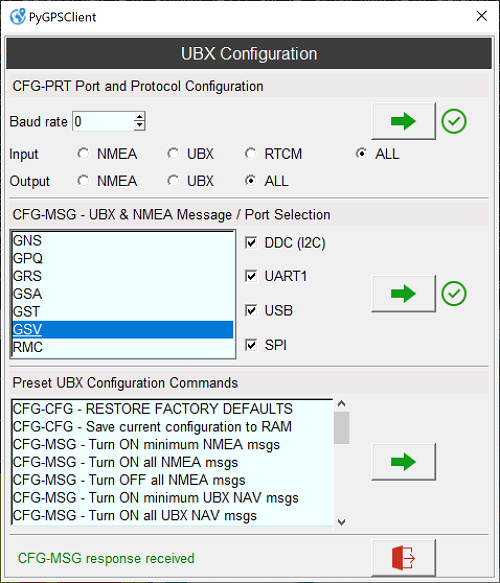
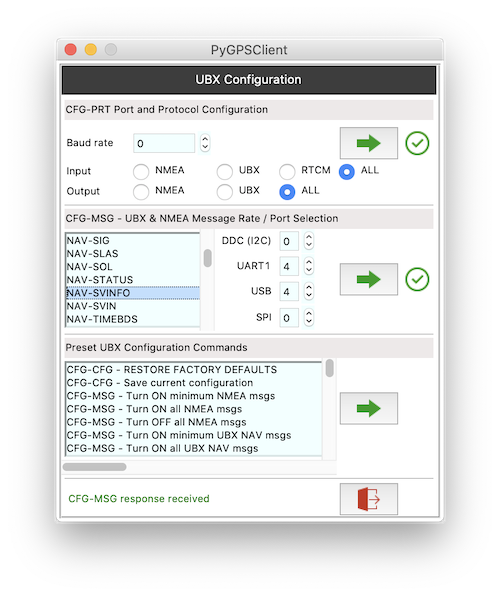
allow CFG-MSG rates in the range 0-9

diff --git a/pygpsclient/ubx_config_dialog.py b/pygpsclient/ubx_config_dialog.py
@@ -73,10 +73,10 @@ class UBXConfigDialog():
         self._ubx_baudrate = StringVar()
         self._ubx_inprot = IntVar()
         self._ubx_outprot = IntVar()
-        self._ddc_onoff = IntVar()
-        self._uart1_onoff = IntVar()
-        self._usb_onoff = IntVar()
-        self._spi_onoff = IntVar()
+        self._ddc_rate = IntVar()
+        self._uart1_rate = IntVar()
+        self._usb_rate = IntVar()
+        self._spi_rate = IntVar()
 
         self._body()
         self._do_layout()
@@ -98,7 +98,7 @@ class UBXConfigDialog():
         con.option_add("*Font", self.__app.font_sm)
 
         self._lbl_title = Label(con, text=LBLUBXCONFIG, bg=BGCOL, fg=FGCOL,
-                                justify=LEFT, font=self.__app.font_md, width=55)
+                                justify=LEFT, font=self.__app.font_md)
         # *******************************************************
         # Port Configuration
         # *******************************************************
@@ -125,7 +125,7 @@ class UBXConfigDialog():
                                             variable=self._ubx_outprot, value=1)
         self._rad_outprot_both = Radiobutton(con, text="ALL",
                                              variable=self._ubx_outprot, value=3)
-        self._lbl_send_port = Label(con)
+        self._lbl_send_port = Label(con, image=self._img_pending)
         self._btn_send_port = Button(con, image=self._img_send, width=50,
                                      command=self._on_send_port,
                                      font=self.__app.font_md)
@@ -142,10 +142,22 @@ class UBXConfigDialog():
         self._scr_cfg_msg = Scrollbar(con, orient=VERTICAL)
         self._lbx_cfg_msg.config(yscrollcommand=self._scr_cfg_msg.set)
         self._scr_cfg_msg.config(command=self._lbx_cfg_msg.yview)
-        self._chk_ddc = Checkbutton(con, text='DDC (I2C)', variable=self._ddc_onoff)
-        self._chk_uart1 = Checkbutton(con, text='UART1', variable=self._uart1_onoff)
-        self._chk_usb = Checkbutton(con, text='USB', variable=self._usb_onoff)
-        self._chk_spi = Checkbutton(con, text='SPI', variable=self._spi_onoff)
+        self._lbl_ddc = Label(con, text='DDC (I2C)')
+        self._spn_ddc = Spinbox(con, width=2, from_=0, to=9,
+                                textvariable=self._ddc_rate,
+                                state=READONLY, readonlybackground=ENTCOL)
+        self._lbl_uart1 = Label(con, text='UART1')
+        self._spn_uart1 = Spinbox(con, width=2, from_=0, to=9,
+                                  textvariable=self._uart1_rate,
+                                  state=READONLY, readonlybackground=ENTCOL)
+        self._lbl_usb = Label(con, text='USB')
+        self._spn_usb = Spinbox(con, width=2, from_=0, to=9,
+                                textvariable=self._usb_rate,
+                                state=READONLY, readonlybackground=ENTCOL)
+        self._lbl_spi = Label(con, text='SPI')
+        self._spn_spi = Spinbox(con, width=2, from_=0, to=9,
+                                textvariable=self._spi_rate,
+                                state=READONLY, readonlybackground=ENTCOL)
         self._lbl_send_cfg_msg = Label(con)
         self._btn_send_cfg_msg = Button(con, image=self._img_send, width=50, fg="green",
                                        command=self._on_send_cfg_msg, font=self.__app.font_md)
@@ -205,13 +217,17 @@ class UBXConfigDialog():
         ttk.Separator(self._frm_container).grid(column=0, row=5, columnspan=6,
                                                 padx=3, pady=3, sticky=(W, E))
         self._lbl_cfg_msg.grid(column=0, row=6, columnspan=6, padx=3, sticky=(W, E))
-        self._lbx_cfg_msg.grid(column=0, row=7, columnspan=3, rowspan=4, padx=3,
+        self._lbx_cfg_msg.grid(column=0, row=7, columnspan=2, rowspan=4, padx=3,
                                pady=3, sticky=(W, E))
-        self._scr_cfg_msg.grid(column=2, row=7, rowspan=4, sticky=(N, S, E))
-        self._chk_ddc.grid(column=3, row=7, padx=0, pady=0, sticky=(W))
-        self._chk_uart1.grid(column=3, row=8, padx=0, pady=0, sticky=(W))
-        self._chk_usb.grid(column=3, row=9, padx=0, pady=0, sticky=(W))
-        self._chk_spi.grid(column=3, row=10, padx=0, pady=0, sticky=(W))
+        self._scr_cfg_msg.grid(column=1, row=7, rowspan=4, sticky=(N, S, E))
+        self._lbl_ddc.grid(column=2, row=7, padx=0, pady=0, sticky=(E))
+        self._spn_ddc.grid(column=3, row=7, padx=0, pady=0, sticky=(W))
+        self._lbl_uart1.grid(column=2, row=8, padx=0, pady=0, sticky=(E))
+        self._spn_uart1.grid(column=3, row=8, padx=0, pady=0, sticky=(W))
+        self._lbl_usb.grid(column=2, row=9, padx=0, pady=0, sticky=(E))
+        self._spn_usb.grid(column=3, row=9, padx=0, pady=0, sticky=(W))
+        self._lbl_spi.grid(column=2, row=10, padx=0, pady=0, sticky=(E))
+        self._spn_spi.grid(column=3, row=10, padx=0, pady=0, sticky=(W))
         self._btn_send_cfg_msg.grid(column=4, row=7, rowspan=4, ipadx=3, ipady=3,
                                    sticky=(E))
         self._lbl_send_cfg_msg.grid(column=5, row=7, rowspan=4, ipadx=3,
@@ -300,10 +316,10 @@ class UBXConfigDialog():
         if self._awaiting_cfgmsg:
             if cfgtype == 'CFG-MSG':
                 self.set_status(f"{cfgtype} received", "green")
-                self._ddc_onoff.set(1 if kwargs['ddcrate'] > 0 else 0)
-                self._uart1_onoff.set(1 if kwargs['uart1rate'] > 0 else 0)
-                self._usb_onoff.set(1 if kwargs['usbrate'] > 0 else 0)
-                self._spi_onoff.set(1 if kwargs['spirate'] > 0 else 0)
+                self._ddc_rate.set(kwargs.get('ddcrate', 0))
+                self._uart1_rate.set(kwargs.get('uart1rate', 0))
+                self._usb_rate.set(kwargs.get('usbrate', 0))
+                self._spi_rate.set(kwargs.get('spirate', 0))
                 self._lbl_send_cfg_msg.config(image=self._img_confirmed)
                 self._awaiting_cfgmsg = False
             if cfgtype == 'ACK-NAK':
@@ -368,14 +384,16 @@ class UBXConfigDialog():
         '''
 
         msg = UBXMessage.key_from_val(UBX_CONFIG_MESSAGES, self._cfg_msg_command)
-        rateDDC = b'\x00' if self._ddc_onoff.get() == 0 else b'\x01'
-        rateUART1 = b'\x00' if self._uart1_onoff.get() == 0 else b'\x01'
-        rateUART2 = b'\x00'
-        rateUSB = b'\x00' if self._usb_onoff.get() == 0 else b'\x01'
-        rateSPI = b'\x00' if self._spi_onoff.get() == 0 else b'\x01'
-        reserved = b'\x00'
-        msg_payload = msg + rateDDC + rateUART1 + rateUART2 + rateUSB + rateSPI + reserved
-        data = UBXMessage('CFG', 'CFG-MSG', SET, payload=msg_payload)
+        msgClass = int.from_bytes(msg[0:1], 'little', signed=False)
+        msgID = int.from_bytes(msg[1:2], 'little', signed=False)
+        rateDDC = int(self._ddc_rate.get())
+        rateUART1 = int(self._uart1_rate.get())
+        rateUSB = int(self._usb_rate.get())
+        rateSPI = int(self._spi_rate.get())
+        data = UBXMessage('CFG', 'CFG-MSG', SET,
+                          msgClass=msgClass, msgID=msgID,
+                          rateDDC=rateDDC, rateUART1=rateUART1,
+                          rateUSB=rateUSB, rateSPI=rateSPI)
         self.__app.serial_handler.serial_write(data.serialize())
         data = UBXMessage('CFG', 'CFG-MSG', POLL, payload=msg)  # poll for a response
         self.__app.serial_handler.serial_write(data.serialize())
